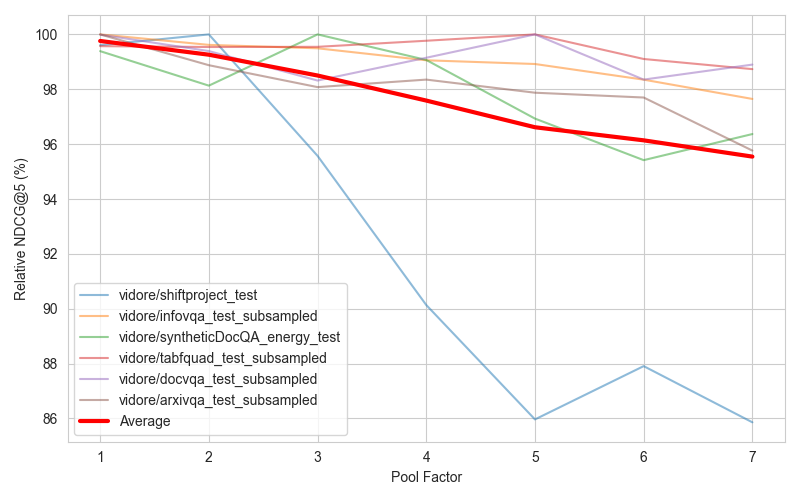
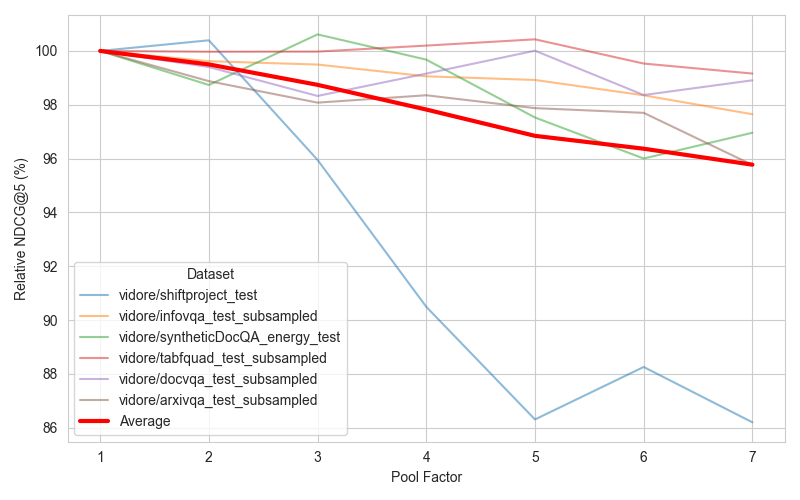
fix(experiments): fix notebook and plots for token pooling

diff --git a/experiments/2024-08-06_impact_of_pool_factor_on_retrieval/README.md b/experiments/2024-08-06_impact_of_pool_factor_on_retrieval/README.md
@@ -10,7 +10,7 @@ ColPali achieves strong retrieval performances on document retrieval tasks (see 
 
 However, your multi-vector embeddings scale linearly in size withe number of tokens! A direct consequence of having larger embeddings is longer indexing and search time. This is where indexing helps: we will approximate our embeddings to make everything go faster. To improve ColBERT, researchers have experimented with ColBERTv2  and Performance-optimized Late Interaction Driver (PLAID) and managed to use centroid and compression tricks to build a multi-step retrieval pipeline that is both efficient and accurate. While PLAID seems great on paper, because it’s centroid-based, it’s not tractable to create (C), update (U), nor to delete (D) a document from the vector store (or else, how would you update the centroids after each operation?). Hierarchical Navigable Small Worlds (HNSW) is fully CRUD but doesn’t scale well.
 
-In his blog ["A little pooling goes a long way for multi-vector representations"](https://www.answer.ai/posts/colbert-pooling.html), Benjamin Clavié proposes a simple but effective to a similar problem with ColBERT: to simply reduce the sequence length of the multi-vector embedding using pooling. Thus our problematic:
+In his blog post [*"A little pooling goes a long way for multi-vector representations"*](https://www.answer.ai/posts/colbert-pooling.html) (2024), Benjamin Clavié proposes a simple but effective to a similar problem with ColBERT: to simply reduce the sequence length of the multi-vector embedding using pooling. Thus our problematic:
 
 > Can we use token pooling to reduce the size of our embeddings and improve the retrieval performance and latency of ColPali?
 
